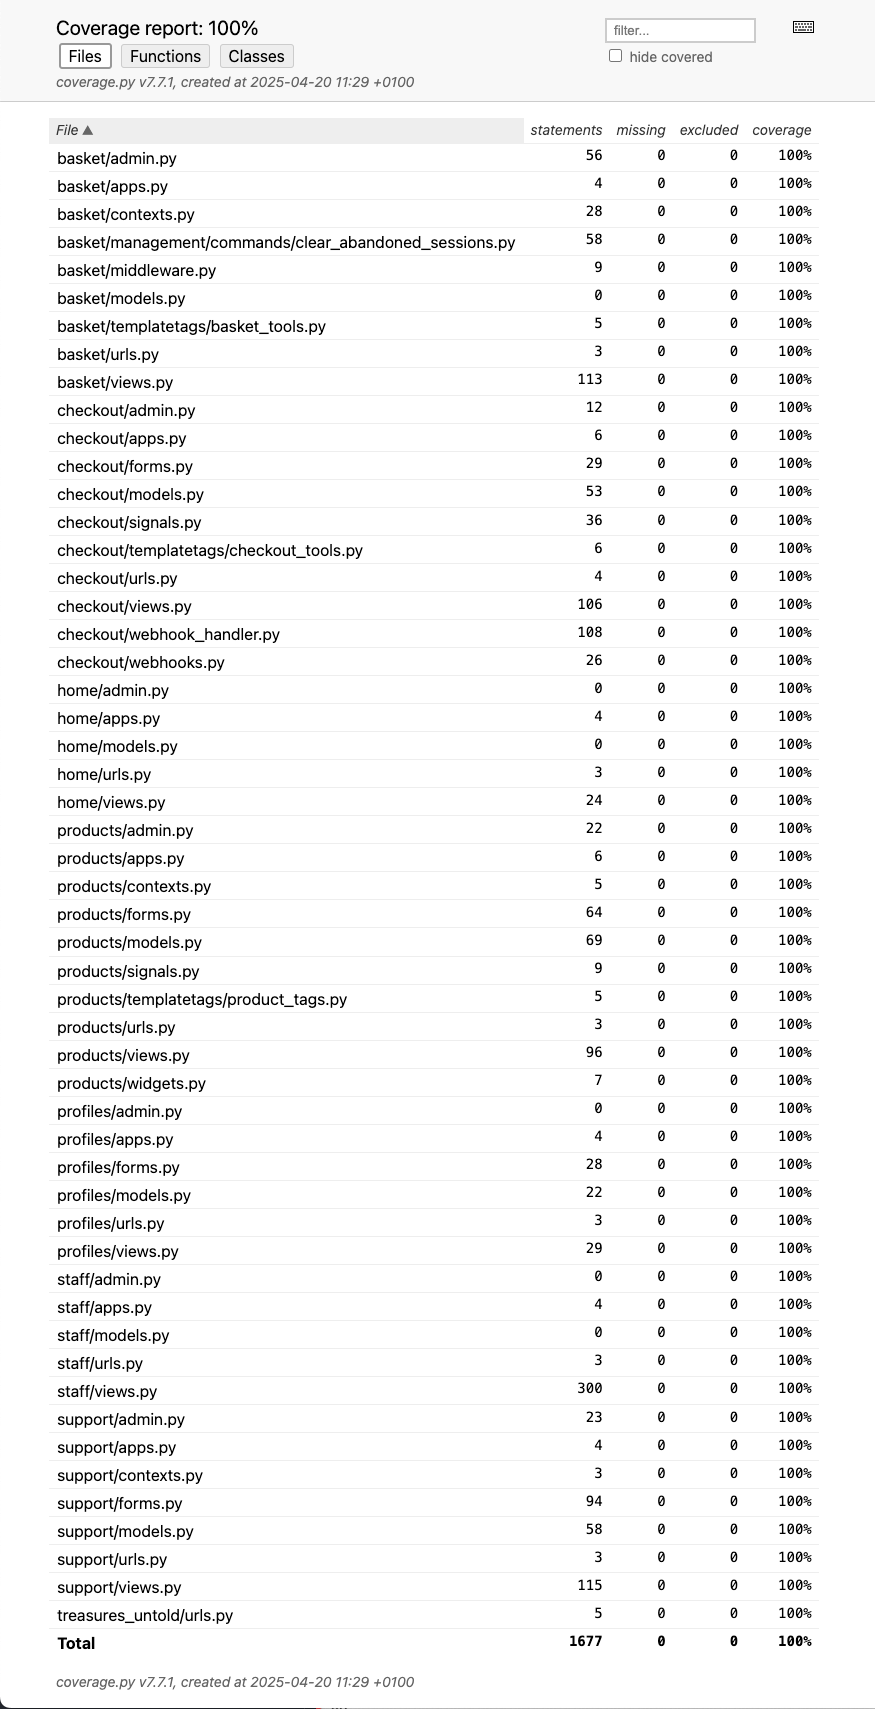
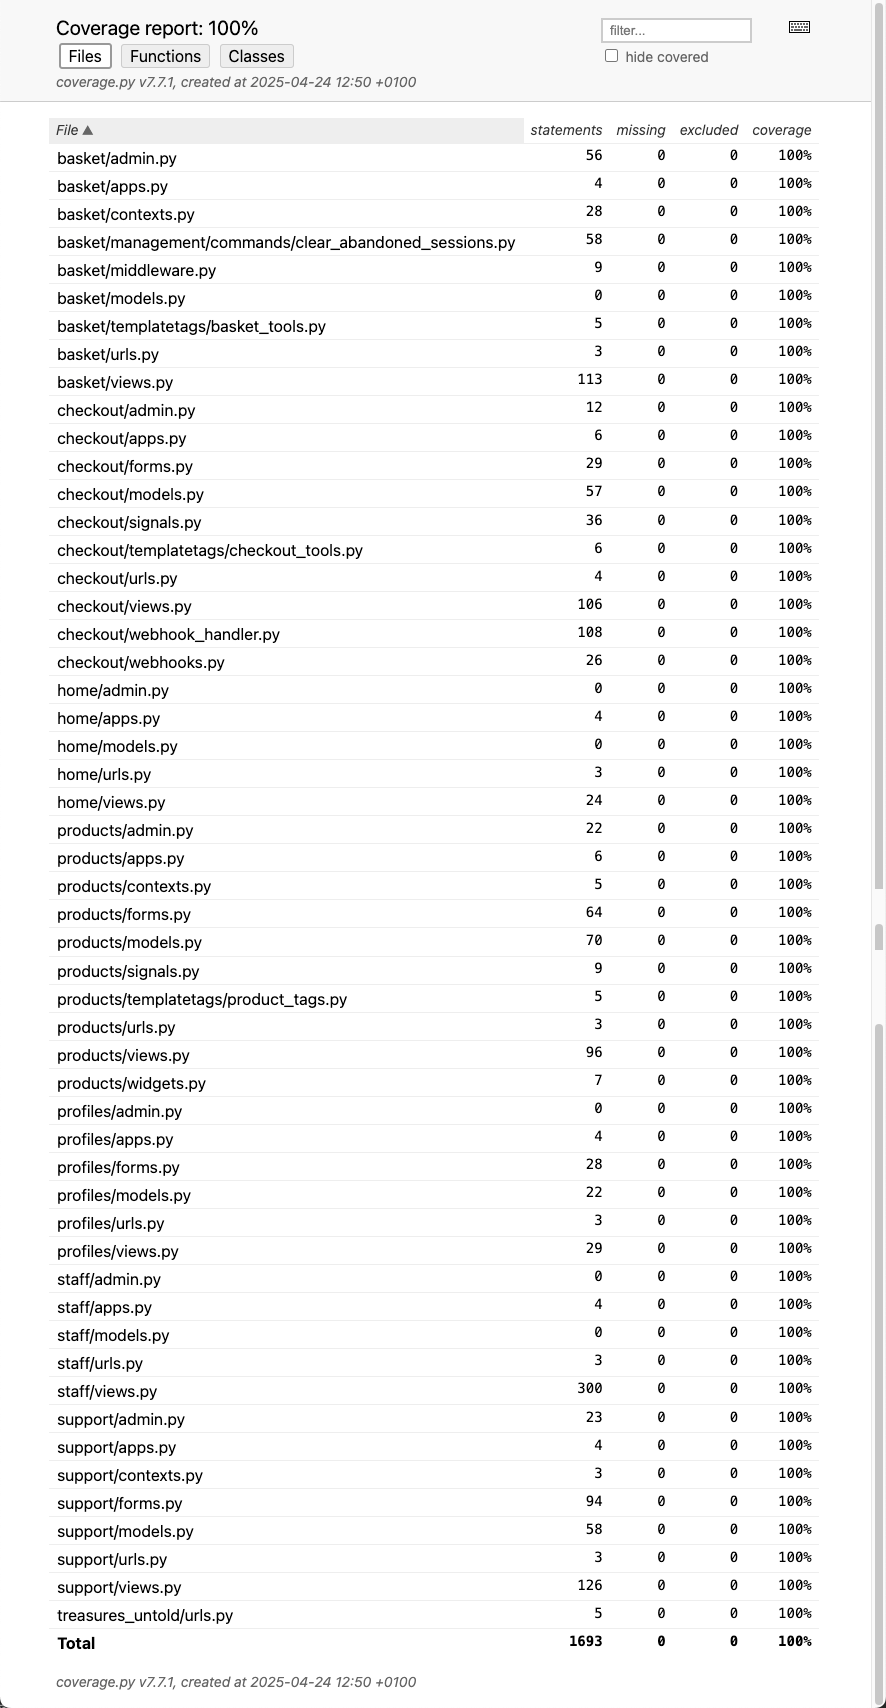
Add unit tests for pre-filled contact form

diff --git a/support/tests/test_views.py b/support/tests/test_views.py
@@ -1,10 +1,14 @@
 from datetime import timedelta
 from unittest.mock import MagicMock, patch
 
+from django.contrib.auth.models import User
 from django.contrib.messages import get_messages
 from django.test import TestCase, Client
 from django.urls import reverse
 from django.utils import timezone
+
+from profiles.models import UserProfile
+from support.forms import ContactForm
 
 from ..models import Subscriber
 from ..views import generate_confirmation_token
@@ -39,6 +43,22 @@ class FaqTests(TestCase):
 
 
 class ContactTests(TestCase):
+    def setUp(self):
+        """
+        Create instances of:
+        - :model:`auth.User`
+        - :model:`profiles.UserProfile`
+        for tests.
+        """
+        self.user = User.objects.create(
+            username='TessTyuza',
+            password='testpass',
+            email='tess@tyuza.com'
+        )
+        self.profile, created = (
+            UserProfile.objects.get_or_create(user=self.user)
+        )
+
     def test_contact_form_get(self):
         """
         Testing the contact view.
@@ -50,6 +70,45 @@ class ContactTests(TestCase):
         # Assertions
         self.assertTemplateUsed(response, 'support/support.html')
         self.assertEqual(response.context['title'], 'Contact Us')
+
+    def test_contact_form_get_with_prefilled_details(self):
+        """
+        Testing the form is prefilled with a logged in users email and username
+        """
+        self.client.force_login(self.user)
+        self.url = reverse('contact')
+        response = self.client.get(self.url)
+        form = response.context.get('form')
+
+        # Assertions
+        self.assertTemplateUsed(response, 'support/support.html')
+        self.assertEqual(response.context['title'], 'Contact Us')
+        self.assertIsInstance(form, ContactForm)
+        self.assertEqual(form['name'].value(), 'TessTyuza')
+        self.assertEqual(form['email'].value(), 'tess@tyuza.com')
+
+    def test_contact_form_get_with_simulated_exception(self):
+        """
+        Testing the form is prefilled with a logged in users username with a
+        simulated exception for finding the :model:`Profiles.UserProfile`
+        instance for the user.
+        """
+        self.client.force_login(self.user)
+        self.url = reverse('contact')
+
+        with patch(
+            'profiles.models.UserProfile.objects.get',
+            side_effect=UserProfile.DoesNotExist()
+        ):
+            response = self.client.get(self.url)
+        form = response.context.get('form')
+
+        # Assertions
+        self.assertTemplateUsed(response, 'support/support.html')
+        self.assertEqual(response.context['title'], 'Contact Us')
+        self.assertIsInstance(form, ContactForm)
+        self.assertEqual(form['name'].value(), 'TessTyuza')
+        self.assertEqual(form['email'].value(), 'tess@tyuza.com')
 
     @patch('support.views.send_mail')
     def test_contact_form_post_valid_form(self, mock_send_mail):

diff --git a/support/views.py b/support/views.py
@@ -234,7 +234,9 @@ def contact(request):
         if request.user.is_authenticated:
             try:
                 user = UserProfile.objects.get(user=request.user)
-                user_name = user.default_full_name
+                user_name = (
+                    user.default_full_name or request.user.get_username()
+                )
             except UserProfile.DoesNotExist:
                 user_name = request.user.get_username()
             initial_data = {
